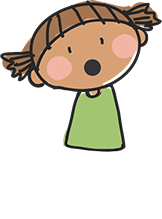
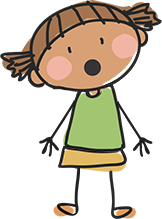
Alterações nos sprites dos personagens

diff --git a/assets/js/PVP.js b/assets/js/PVP.js
@@ -138,8 +138,6 @@ function verificaLetra(botao, letra, controle) {
 		letras_clicadas.push(letra); //console.log(letras_clicadas); 
 	} //serve para não entrar em um loop infinito entre servidor-cliente
 
-	//desabilita_botoes_lista();
-
 	for(var i = 0; i<palavra.length; i++){ 
 		if(letra == ignora_acentuacao(palavra_aux[i])){ 
 			revela_letras(palavra_aux[i].toLowerCase(), i);
@@ -151,7 +149,7 @@ function verificaLetra(botao, letra, controle) {
 			if(tamanho_palavra_aux == 0){ //concluiu a palavra
 				label_parabens.visible = true; 
 				restarta_Botoes(false); //desabilita os botões
-				pontuacao = pontuacao + 10; //ATUALIZA A PONTUAÇÃO
+				if(minha_vez) pontuacao = pontuacao + 10; //atualiza pontuação se for sua vez
 				play_btn.visible = true;
 				deleteDicaLabel(); //deleta o label da dica iniciar um novo
 
@@ -264,9 +262,10 @@ function on_off_botoes(condicao){
 function removeParteDoCorpo(){
 	if(minha_vez){ //se for a vez do personagem
 		if(sprite_personagem.frame != 6){
-			sprite_personagem.frame++; //remove uma parte do corpo (muda de sprite) do personagem)
+			//sprite_personagem.frame++; //remove uma parte do corpo (muda de sprite) do personagem)
+			sprite_personagem.alpha = sprite_personagem.alpha - 0.142; //diminui a opacidade do personagem
 		} else { //CONDIÇÃO DE PERDER!
-			pontuacao = pontuacao -2;
+			//pontuacao = pontuacao -2;
 			sprite_personagem.visible = false;
 			label_perdeu.visible = true;
 			restarta_Botoes(false); //desabilita os botões
@@ -276,9 +275,10 @@ function removeParteDoCorpo(){
 		}
 	} else{
 		if(sprite_personagem_adversario.frame != 6){
-			sprite_personagem_adversario.frame++; //remove uma parte do corpo (muda de sprite) do personagem)
+			//sprite_personagem_adversario.frame++; //remove uma parte do corpo (muda de sprite) do personagem)
+			sprite_personagem_adversario.alpha = sprite_personagem.alpha - 0.142; //diminui a opacidade do personagem
 		} else { //CONDIÇÃO DE PERDER!
-			pontuacao = pontuacao -2;
+			//pontuacao = pontuacao -2;
 			sprite_personagem_adversario.visible = false;
 			label_perdeu.visible = true;
 			restarta_Botoes(false); //desabilita os botões
